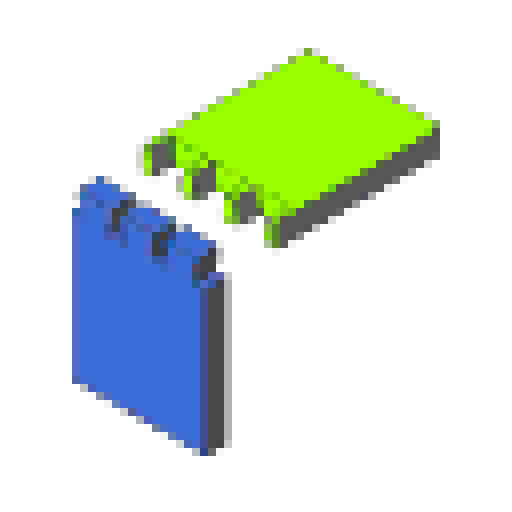
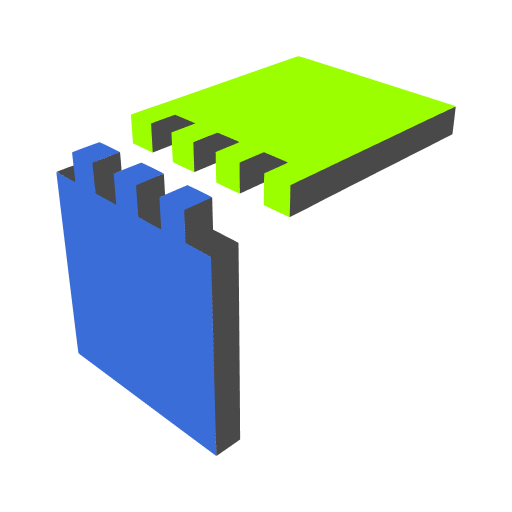
Proper Vector Iconset!
Yay! Got it working! Just decided to render the model at a higher resolution, then convert that bitmap image to a vector SVG using Photopea. Then I brought that into Figma, and made a duplicate of my icon generator project for STE, which has presets for all of the different image layout sizes. I exported the initial ones I have prepared essentially, since I don't really have a design idea for maskable nor macOS or iOS-specific icons yet.

Also, after Photopea generates the SVG XML, I simplify it using my coding skills (lol) since there are only a certain set of things that an SVG file really has to have. Then I run that through svgminify.com, which shrinks the <path> declarations down a bit more than they are exported. Also, kinda goofed. This step happens before the Figma stage.

Later down the road, similarly to what I did with STE's logo, I probably will simplify the shapes of the vector icon base, since Photopea's path detection doesn't always make straight lines. So I probably have to fix some of the edges there. They look much better than the original bitmap image though, so I don't need to fix it right now, because having something better at all is just an improvement.

Changed region(s): [[0.0938, 0.0938, 0.9062, 0.9062]]

diff --git a/index.html b/index.html
@@ -9,8 +9,9 @@
 <meta name="color-scheme" content="light dark">
 <meta name="theme-color" content="#445985">
 <link rel="manifest" href="./manifest.webmanifest">
-<link rel="icon" type="image/png" sizes="16x16" href="./icon-16.png">
-<link rel="icon" type="image/png" sizes="32x32" href="./icon-32.png">
+<link rel="icon" type="image/svg+xml" href="./icon.svg">
+<link rel="alternate icon" type="image/png" sizes="16x16" href="./icon-16.png">
+<link rel="alternate icon" type="image/png" sizes="32x32" href="./icon-32.png">
 
 <link rel="stylesheet" href="./styles.css">
 
@@ -19,7 +20,7 @@
 <body>
 
 <header>
-  <img height="32" draggable="false" src="./app-512.png">
+  <img draggable="false" src="./icon.svg" alt="">
   <button onclick="fileOpener.click();">Open</button>
   <input id="fileOpener" type="file" accept="application/octet-stream, .nbt, .dat, .dat_old">
   <button id="saver" disabled>Save</button>

diff --git a/styles.css b/styles.css
@@ -33,6 +33,11 @@ header {
   border-right-width: env(safe-area-inset-right);
 }
 
+header > img {
+  margin: 4px;
+  height: 24px;
+}
+
 @media (display-mode: window-controls-overlay) {
   header {
     min-height: env(titlebar-area-height);
